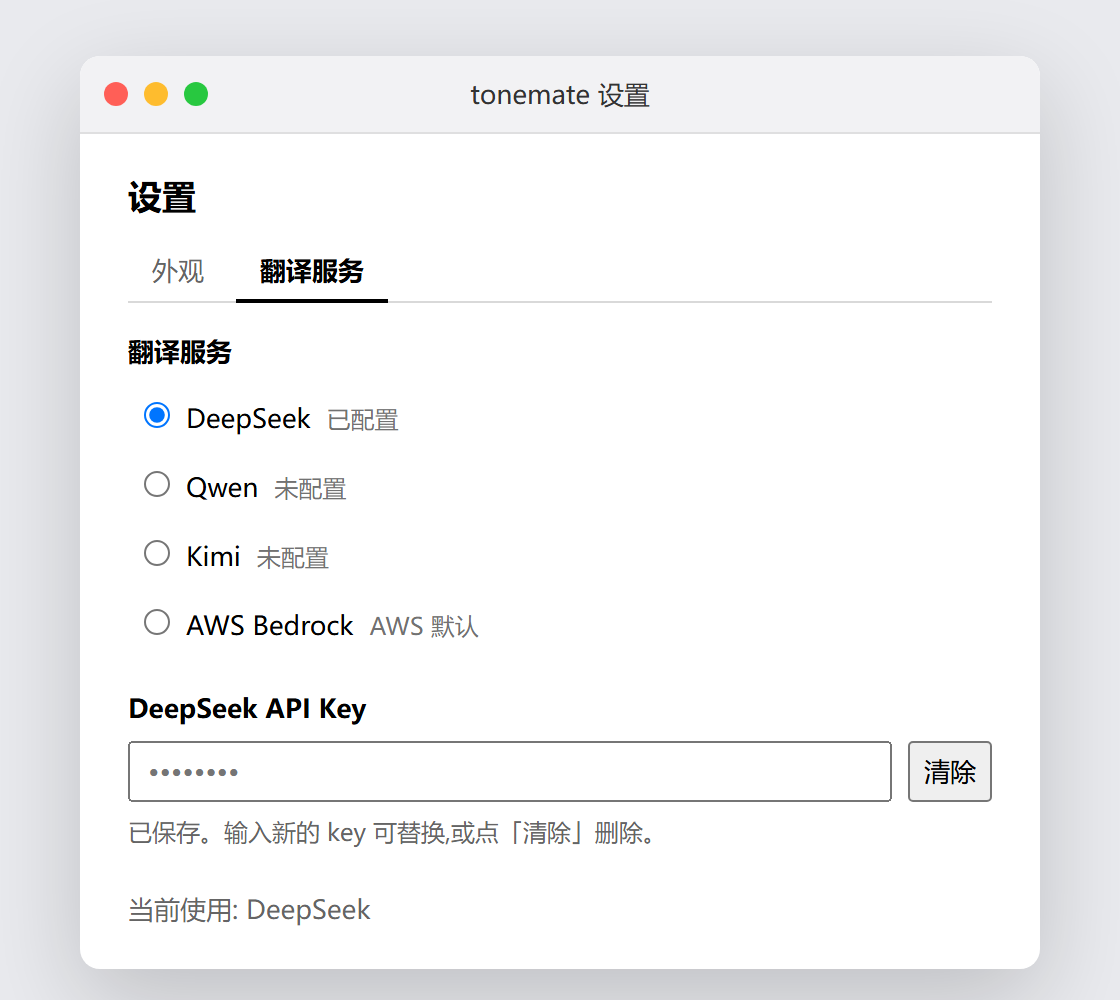
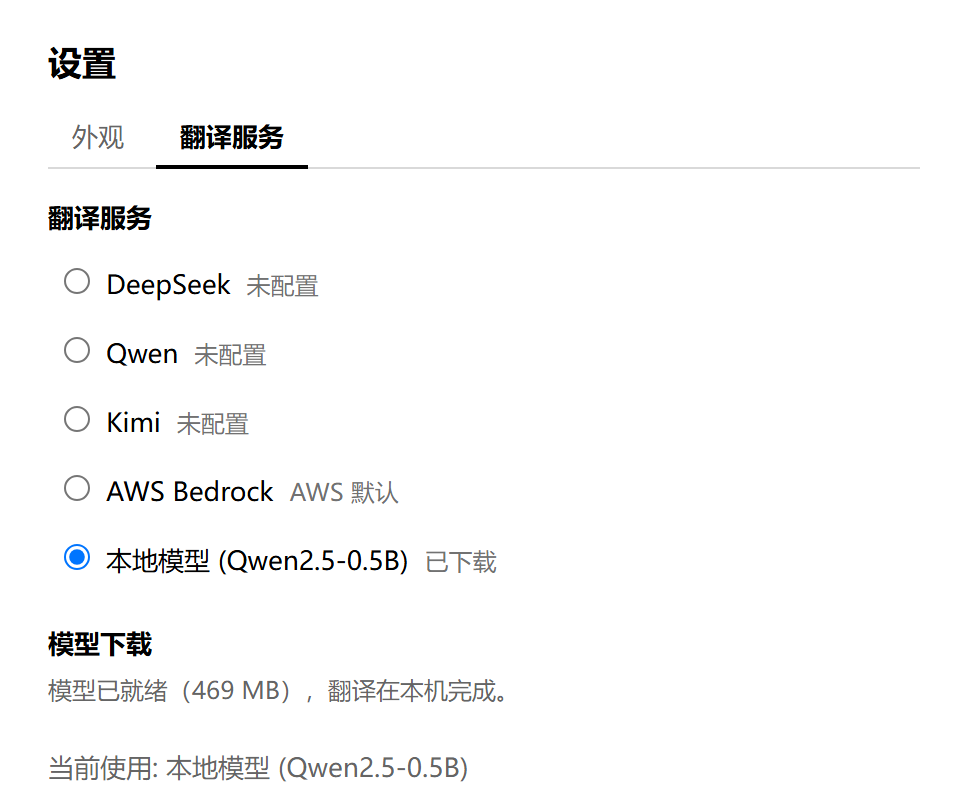
docs: update settings screenshot and document scene-based tones
Regenerate the settings screenshot so it shows the local model in the
provider list, and note in the README that the local model classifies the
input's scene before translating in that scene's three tones.

Changed region(s): [[0.0, 0.0, 1.0, 1.0], [0.7812, 0.7188, 0.875, 0.8125], [0.2188, 0.25, 0.3438, 0.3125]]

diff --git a/README.en.md b/README.en.md
@@ -105,6 +105,8 @@ Pick **Local model (Qwen2.5-0.5B)** in Settings → Translation service to trans
 Selecting it for the first time downloads the model automatically (~469 MB, Q4_K_M, via the `hf-mirror.com` mirror); the download is resumable.
 Translation runs locally through llama.cpp, which prepares its runtime on the first translation (a few seconds). Both the model and the runtime fall back to mirrors automatically when their official host is unreachable — no manual configuration needed.
 
+The local model first classifies the input into a scene (workplace communication / daily conversation / technical documentation / business formal / customer service), then translates it in the three tones predefined for that scene.
+
 The local model is the default; it downloads automatically on first launch, and nothing is downloaded unless you select it.
 
 Available environment variables:
